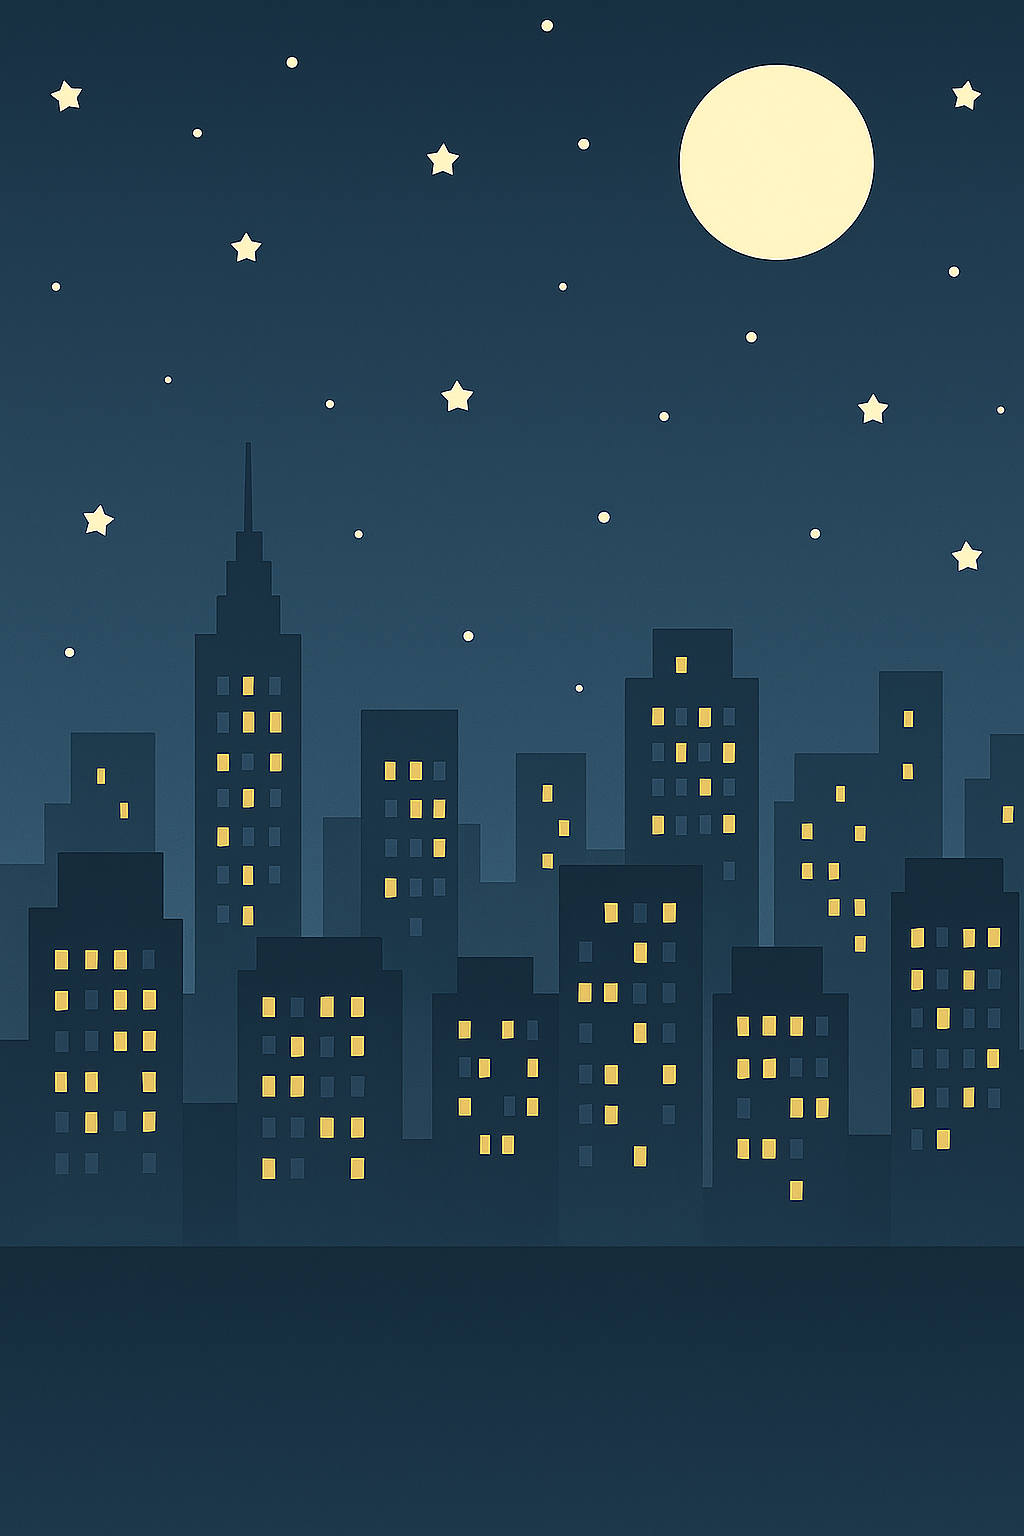
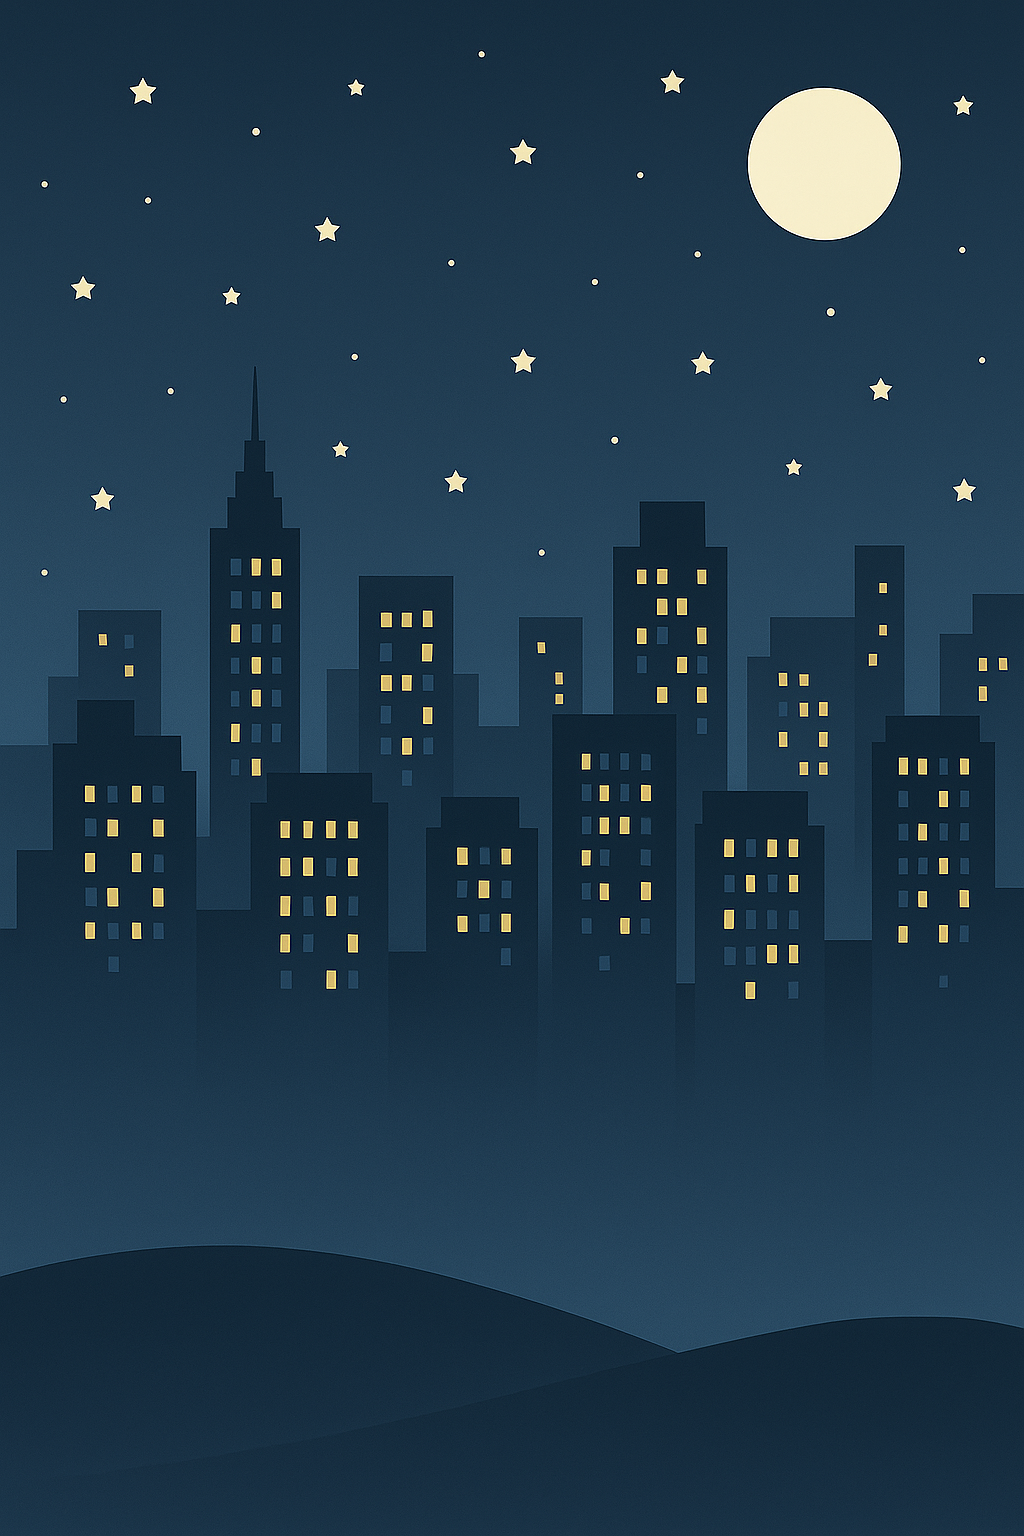
블루

diff --git a/frontend/app/(tabs)/customize.tsx b/frontend/app/(tabs)/customize.tsx
@@ -1,6 +1,7 @@
 //커스터마이징 화면
 import { View, Text, TouchableOpacity, StyleSheet, ScrollView, SafeAreaView, Image } from "react-native";
-import { useState } from "react";
+import { useEffect, useState } from "react";
+import { router } from "expo-router";
 import HomeButton from "../../components/HomeButton";
 import dog from "../../assets/images/animals/dog.png";
 import capibara from "../../assets/images/animals/capibara.png";
@@ -13,33 +14,61 @@ import fall from "../../assets/images/background/fall.png";
 import winter from "../../assets/images/background/winter.png";
 import city from "../../assets/images/background/city.png";
 import home from "../../assets/images/background/home.png";
+import { useCustomization } from "../../context/CustomizationContext";
 
+const menuItems = ['동물', '배경', '시계'];
+
+const animals = [
+  { name: '강아지', src: dog },
+  { name: '카피바라', src: capibara },
+  { name: '사막여우', src: fox },
+  { name: '기니피그', src: ginipig },
+  { name: '레서판다', src: red_panda },
+];
+
+const backgrounds = [
+  { name: '기본', src: home },
+  { name: '봄', src: spring },
+  { name: '여름', src: summer },
+  { name: '도시', src: city },
+  { name: '가을', src: fall },
+  { name: '겨울', src: winter },
+];
+
+const clocks = ['기본', '클래식', '모던', '미니멀'];
 
 export default function CustomizeScreen() {
+  const { setCustomization, selectedAnimal, selectedBackground, selectedClock } = useCustomization();
   const [selectedMenu, setSelectedMenu] = useState('동물');
-  const [selectedAnimal, setSelectedAnimal] = useState('🐕');
-  const [selectedBackground, setSelectedBackground] = useState('기본');
-  const [selectedClock, setSelectedClock] = useState('기본');
+  const [activeAnimal, setActiveAnimal] = useState(() => {
+    const match = animals.find(a => a.src === selectedAnimal);
+    return match?.name ?? '강아지';
+  });
+  const [activeBackground, setActiveBackground] = useState(() => {
+    const match = backgrounds.find(bg => bg.src === selectedBackground);
+    return match?.name ?? '기본';
+  });
+  const [activeClock, setActiveClock] = useState(selectedClock ?? '기본');
 
-  const menuItems = ['동물', '배경', '시계'];
+  useEffect(() => {
+    const match = animals.find(a => a.src === selectedAnimal);
+    if (match) {
+      setActiveAnimal(match.name);
+    }
+  }, [selectedAnimal]);
 
-  const animals = [
-    { name: '강아지', src: dog },
-    { name: '카피바라', src: capibara },
-    { name: '사막여우', src: fox },
-    { name: '기니피그', src: ginipig },
-    { name: '레서판다', src: red_panda },
-  ];
-  const backgrounds = [
-    { name: '기본', src: home },
-    { name: '봄', src: spring },
-    { name: '여름', src: summer },
-    { name: '도시', src: city },
-    { name: '가을', src: fall },  
-    { name: '겨울', src: winter },
-  ];
-  
-  const clocks = ['기본', '클래식', '모던', '미니멀'];
+  useEffect(() => {
+    const match = backgrounds.find(bg => bg.src === selectedBackground);
+    if (match) {
+      setActiveBackground(match.name);
+    }
+  }, [selectedBackground]);
+
+  useEffect(() => {
+    if (selectedClock) {
+      setActiveClock(selectedClock);
+    }
+  }, [selectedClock]);
 
   const renderContent = () => {
     switch (selectedMenu) {
@@ -51,9 +80,9 @@ export default function CustomizeScreen() {
                 key={a.name}
                 style={[
                   styles.optionItem,
-                  selectedAnimal === a.name && styles.selectedOption
+                  activeAnimal === a.name && styles.selectedOption
                 ]}
-                onPress={() => setSelectedAnimal(a.name)}
+                onPress={() => setActiveAnimal(a.name)}
               >
                 <Image
                   source={a.src}
@@ -72,9 +101,9 @@ export default function CustomizeScreen() {
                   key={bg.name}
                   style={[
                     styles.optionItem,
-                    selectedBackground === bg.name && styles.selectedOption
+                    activeBackground === bg.name && styles.selectedOption
                   ]}
-                  onPress={() => setSelectedBackground(bg.name)}
+                  onPress={() => setActiveBackground(bg.name)}
                 >
                   <Image
                     source={bg.src}
@@ -94,9 +123,9 @@ export default function CustomizeScreen() {
                 key={index}
                 style={[
                   styles.optionItem,
-                  selectedClock === clock && styles.selectedOption
+                  activeClock === clock && styles.selectedOption
                 ]}
-                onPress={() => setSelectedClock(clock)}
+                onPress={() => setActiveClock(clock)}
               >
                 <Text style={styles.optionText}>{clock}</Text>
               </TouchableOpacity>
@@ -109,9 +138,19 @@ export default function CustomizeScreen() {
   };
 
   const handleSave = () => {
-    // 저장 로직 구현
-    console.log('저장됨:', { selectedAnimal, selectedBackground, selectedClock });
+    const selectedAnimalData = animals.find(a => a.name === activeAnimal);
+    const selectedBgData = backgrounds.find(bg => bg.name === activeBackground);
+    const selectedClockData = clocks.find(c => c === activeClock);
+
+    setCustomization(
+      selectedAnimalData?.src || null,
+      selectedBgData?.src || null,
+      selectedClockData || null
+    );
+
+    router.back();
   };
+  
 
   return (
     <SafeAreaView style={styles.container}>
@@ -120,8 +159,8 @@ export default function CustomizeScreen() {
       <View style={styles.previewContainer}>
         <View style={styles.previewPetContainer}>
           {(() => {
-            const selectedAnimalData = animals.find(a => a.name === selectedAnimal);
-            const selectedBgData = backgrounds.find(bg => bg.name === selectedBackground);
+            const selectedAnimalData = animals.find(a => a.name === activeAnimal);
+            const selectedBgData = backgrounds.find(bg => bg.name === activeBackground);
             const isBackgroundMode = selectedMenu === '배경';
 
             return (

diff --git a/frontend/app/(tabs)/home.tsx b/frontend/app/(tabs)/home.tsx
@@ -21,6 +21,7 @@ import API_BASE_URL from "../../config/api";
 import ChatBubbleButton from "../../components/ChatBubbleButton";
 import SettingsButton from "../../components/SettingsButton";
 import RankingButton from "../../components/RankingButton";
+import { useCustomization, DEFAULT_ANIMAL_IMAGE, DEFAULT_BACKGROUND_IMAGE } from "../../context/CustomizationContext";
 
 const BASE_WIDTH = 390;
 const BASE_HEIGHT = 844;
@@ -59,11 +60,12 @@ const HomeScreen = () => {
   const [pendingAnimal, setPendingAnimal] = useState<AnimalId | null>(null);
   const [showAnimalConfirm, setShowAnimalConfirm] = useState(false);
 
-  const [selectedAnimal, setSelectedAnimal] = useState<AnimalId | null>(null);
+  const [selectedAnimalId, setSelectedAnimalId] = useState<AnimalId | null>(null);
   const [nickname, setNickname] = useState("");
   const [height, setHeight] = useState("");
   const [weight, setWeight] = useState("");
   const [accountName, setAccountName] = useState("");
+  const { selectedAnimal, selectedBackground } = useCustomization();
 
   const petSize = Math.min(240, screenWidth * 0.5);
   const buttonSize = Math.max(96, Math.min(144, screenWidth * 0.3));
@@ -98,7 +100,7 @@ const HomeScreen = () => {
             const hasNickname = !!nicknameValue;
 
             setAccountName(devAccount.name ?? "");
-            setSelectedAnimal(animalType);
+            setSelectedAnimalId(animalType);
             setNickname(nicknameValue ?? "");
             setHeight(
               heightValue !== null && heightValue !== undefined
@@ -114,7 +116,7 @@ const HomeScreen = () => {
             setShowProfileModal(hasAnimal && !hasNickname);
           } else {
             setAccountName("");
-            setSelectedAnimal(null);
+            setSelectedAnimalId(null);
             setNickname("");
             setHeight("");
             setWeight("");
@@ -148,7 +150,7 @@ const HomeScreen = () => {
         setAccountName(data.account?.name ?? "");
 
         if (data.profile) {
-          setSelectedAnimal(data.profile.animalType ?? null);
+          setSelectedAnimalId(data.profile.animalType ?? null);
           setNickname(data.profile.nickname ?? "");
           setHeight(
             data.profile.height !== null && data.profile.height !== undefined
@@ -163,7 +165,7 @@ const HomeScreen = () => {
           setShowAnimalModal(false);
           setShowProfileModal(false);
         } else {
-          setSelectedAnimal(null);
+          setSelectedAnimalId(null);
           setNickname("");
           setHeight("");
           setWeight("");
@@ -184,11 +186,11 @@ const HomeScreen = () => {
   const navigateToTimer = () => router.push("/(tabs)/timer" as any);
   const navigateToRecords = () => router.push("/(tabs)/records" as any);
   const navigateToRanking = () => router.push("/(tabs)/ranking" as any);
-  const navigateToCustomize = () => router.push("/(tabs)/customize" as any);
   const navigateToAchievement = () => router.push("/(tabs)/achievement" as any);
+  const navigateToCustomize = () => router.push("/(tabs)/customize" as any);
 
   const handleSaveProfile = async () => {
-    if (!selectedAnimal) {
+    if (!selectedAnimalId) {
       Alert.alert("알림", "함께할 동물을 먼저 선택해주세요.");
       return;
     }
@@ -206,7 +208,7 @@ const HomeScreen = () => {
         name: nameForDev,
         email: "dev@example.com",
         profile: {
-          animalType: selectedAnimal,
+          animalType: selectedAnimalId,
           nickname,
           height: height ? Number(height) : null,
           weight: weight ? Number(weight) : null,
@@ -231,7 +233,7 @@ const HomeScreen = () => {
     }
 
     const payload = {
-      animalType: selectedAnimal,
+      animalType: selectedAnimalId,
       nickname,
       height: height ? Number(height) : null,
       weight: weight ? Number(weight) : null,
@@ -272,7 +274,7 @@ const HomeScreen = () => {
 
   const confirmAnimalSelection = () => {
     if (!pendingAnimal) return;
-    setSelectedAnimal(pendingAnimal);
+    setSelectedAnimalId(pendingAnimal);
     setPendingAnimal(null);
     setShowAnimalConfirm(false);
     setShowAnimalModal(false);
@@ -286,7 +288,7 @@ const HomeScreen = () => {
 
   return (
     <ImageBackground
-      source={require("../../assets/images/background_test.png")}
+      source={selectedBackground ?? DEFAULT_BACKGROUND_IMAGE}
       style={styles.background}
       resizeMode="contain"
     >
@@ -338,7 +340,7 @@ const HomeScreen = () => {
             onPress={navigateToCustomize}
           >
             <Image
-              source={require("../../assets/images/dog_character.png")}
+              source={selectedAnimal ?? DEFAULT_ANIMAL_IMAGE}
               style={[styles.petPortraitImage, { width: petSize * 0.8, height: petSize * 0.8 }]}
             />
           </TouchableOpacity>
@@ -409,7 +411,7 @@ const HomeScreen = () => {
               <View style={styles.animalOptions}>
                 {ANIMAL_OPTIONS.map((animal) => {
                   const isSelected =
-                    animal.id === pendingAnimal || animal.id === selectedAnimal;
+                    animal.id === pendingAnimal || animal.id === selectedAnimalId;
                   return (
                     <TouchableOpacity
                       key={animal.id}
@@ -461,13 +463,13 @@ const HomeScreen = () => {
                   선택한 동물과 함께할 준비가 되었어요. 정보를 입력해주세요.
                 </Text>
 
-                {selectedAnimal && (
+                {selectedAnimalId && (
                   <View style={styles.selectedAnimalSummary}>
                     <Text style={styles.selectedAnimalEmoji}>
-                      {ANIMAL_OPTIONS.find((animal) => animal.id === selectedAnimal)?.emoji ?? ""}
+                      {ANIMAL_OPTIONS.find((animal) => animal.id === selectedAnimalId)?.emoji ?? ""}
                     </Text>
                     <Text style={styles.selectedAnimalLabel}>
-                      {ANIMAL_OPTIONS.find((animal) => animal.id === selectedAnimal)?.label ?? ""}
+                      {ANIMAL_OPTIONS.find((animal) => animal.id === selectedAnimalId)?.label ?? ""}
                     </Text>
                   </View>
                 )}

diff --git a/frontend/context/CustomizationContext.tsx b/frontend/context/CustomizationContext.tsx
@@ -1,0 +1,64 @@
+import { ImageSourcePropType } from "react-native";
+import { createContext, ReactNode, useContext, useMemo, useState } from "react";
+
+export const DEFAULT_ANIMAL_IMAGE = require("../assets/images/dog_character.png");
+export const DEFAULT_BACKGROUND_IMAGE = require("../assets/images/background_test.png");
+
+type CustomizationContextValue = {
+  selectedAnimal: ImageSourcePropType | null;
+  selectedBackground: ImageSourcePropType | null;
+  selectedClock: string | null;
+  setCustomization: (
+    animal: ImageSourcePropType | null,
+    background: ImageSourcePropType | null,
+    clock: string | null
+  ) => void;
+};
+
+const CustomizationContext = createContext<CustomizationContextValue | undefined>(undefined);
+
+type CustomizationProviderProps = {
+  children: ReactNode;
+};
+
+export const CustomizationProvider = ({ children }: CustomizationProviderProps) => {
+  const [selectedAnimal, setSelectedAnimal] = useState<ImageSourcePropType | null>(
+    DEFAULT_ANIMAL_IMAGE
+  );
+  const [selectedBackground, setSelectedBackground] = useState<ImageSourcePropType | null>(
+    DEFAULT_BACKGROUND_IMAGE
+  );
+  const [selectedClock, setSelectedClock] = useState<string | null>(null);
+
+  const setCustomization = (
+    animal: ImageSourcePropType | null,
+    background: ImageSourcePropType | null,
+    clock: string | null
+  ) => {
+    setSelectedAnimal(animal ?? DEFAULT_ANIMAL_IMAGE);
+    setSelectedBackground(background ?? DEFAULT_BACKGROUND_IMAGE);
+    setSelectedClock(clock ?? null);
+  };
+
+  const value = useMemo(
+    () => ({
+      selectedAnimal,
+      selectedBackground,
+      selectedClock,
+      setCustomization,
+    }),
+    [selectedAnimal, selectedBackground, selectedClock]
+  );
+
+  return <CustomizationContext.Provider value={value}>{children}</CustomizationContext.Provider>;
+};
+
+export const useCustomization = () => {
+  const context = useContext(CustomizationContext);
+  if (!context) {
+    throw new Error("useCustomization은 CustomizationProvider 내에서만 사용할 수 있습니다.");
+  }
+
+  return context;
+};
+

diff --git a/frontend/app/_layout.tsx b/frontend/app/_layout.tsx
@@ -1,14 +1,17 @@
 import { Stack } from "expo-router";
 import { SafeAreaProvider } from "react-native-safe-area-context";
+import { CustomizationProvider } from "../context/CustomizationContext";
 
 export default function RootLayout() {
   return (
     <SafeAreaProvider>
-      <Stack 
-        screenOptions={{
-          headerShown: false,
-        }}
-      />
+      <CustomizationProvider>
+        <Stack
+          screenOptions={{
+            headerShown: false,
+          }}
+        />
+      </CustomizationProvider>
     </SafeAreaProvider>
   );
 }
